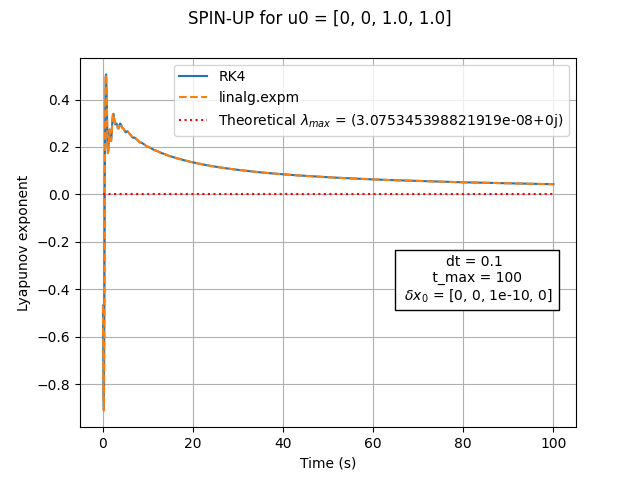
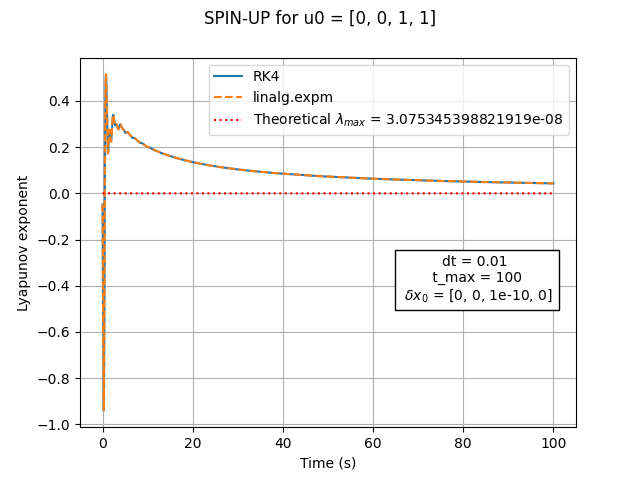
big update jan5

diff --git a/Python codes/lyapunov_spinup.py b/Python codes/lyapunov_spinup.py
@@ -16,6 +16,11 @@ import scipy as sp
 import matplotlib.pyplot as plt
 import tqdm # Progression bar
 
+# Latex labels
+lambda_latex = r"$\lambda_{max}$"
+delta_latex = r"$\delta x_0$"
+t_max_latex = r"$t_{max}$"
+
 # Parameters
 l1 = 1
 l2 = 1
@@ -70,8 +75,8 @@ def RK4_matrix(dt, N, A, delta_0):
 # Arbitrary initial conditions
 w1_0 = 0
 w2_0 = 0
-th1_0 = 1.7
-th2_0 = 1.7
+th1_0 = 1
+th2_0 = 1
 
 u0 = np.array([w1_0, w2_0, th1_0, th2_0])
 
@@ -128,22 +133,17 @@ print(f"Eigenvalues of the jacobian matrix when u0 = {u0}:")
 print(eigenvalue)
 print()
 print("Theoretical lyapunov exponent:")
-print(f"lyap_max = {np.max(eigenvalue.real)}")
+print(f"{lambda_latex} = {np.max(eigenvalue.real)}")
 print()
 print("Experimental lyapunov exponent:")
-print(f"lyap[-1] = {lya_a[-1]}")
-print(f"lyap[500] = {lya_a[500]}") # t = 5 if dt = 0.01
-print(f"lyapunov average from the 400th to the 1000th iteration: {np.average(lya_a[400:1000])}")
+print(f"{lambda_latex}({t_max_latex}) = {lya_a[-1]}")
+print(f"{lambda_latex}(t=20) = {lya_a[2000]}") # t = 20 if dt = 0.01
+print(f"lyapunov average from t=20 to {t_max_latex}: {np.average(lya_a[2000:N])}")
 print()
-print(f"N.B. Lyap length = N: {len(lya_a)}")
+print(f"N.B. lyapunov array length = N = {len(lya_a)}")
 print()
 #-------------------------------------------
 # Plotting the single spin-up results
-
-# Latex labels
-lambda_latex = r"$\lambda_{max}$"
-delta_latex = r"$\delta x_0$"
-t_max_latex = r"$t_{max}$"
 
 plt.figure()
 plt.plot(t_delta, lya, label = "RK4")
@@ -155,12 +155,12 @@ plt.ylabel("Lyapunov exponent")
 plt.text(0.8, 0.4, f"dt = {dt} \n t_max = {t_max} \n {delta_latex} = {delta_0}", bbox = dict(facecolor = "white", alpha = 1), horizontalalignment='center', verticalalignment='center', transform=plt.gca().transAxes)
 plt.grid()
 plt.legend()
-plt.savefig("lyapunov_spinup_z.png")
+plt.savefig("lyapunov_spinup_xrad.png")
 
 plt.show()
 
 
-
+"""
 #-------------------------------------------
 # SPIN-UP for each initial conditions where theta1 = theta2 = theta
 th = np.linspace(0,np.pi,30) # Angle array
@@ -222,5 +222,4 @@ plt.show()
 theta_theta = [np.array([0, 0, th[p], th[p]])  for p in range(30)]
 theta_zero = [np.array([0, 0, th[p], 0]) for p in range(30)]
 zero_theta = [np.array([0, 0, 0, th[p]]) for p in range(30)]
-
-
+"""

diff --git a/Python codes/lyapunov_exponent.py b/Python codes/lyapunov_exponent.py
@@ -83,7 +83,7 @@ def jacobian(w1, w2, th1, th2):
 
 def lyapunov(u, dx):
     """ Computing lambda_max after t_step seconds, starting from a given u and dx"""
-    t_step = 30 # chosen arbitrarily according to the spin-up phase
+    t_step = 20 # chosen arbitrarily according to the spin-up phase
     J = jacobian(u[0],u[1],u[2],u[3]) # evaluating the jacobian at u
     dxf = sp.linalg.expm(J*t_step) @ dx # solving for dx after t seconds
     norm = np.linalg.norm(dxf)
@@ -142,7 +142,7 @@ def graph_lyaps(th, lya_th, u_0):
     plt.suptitle(title)
     plt.ylabel("Lyapunov exponent")
     plt.xlabel(r"$\theta$ (rad)")
-    plt.text(0.2, 0.7, f"dt = {dt} \n {t_max_latex} = 50*{t_step_latex} = 50*30 \n {delta_latex} = [0,0,1e-10,0]", bbox = dict(facecolor = "white", alpha = 1), horizontalalignment='center', verticalalignment='center', transform=plt.gca().transAxes)
+    plt.text(0.2, 0.7, f"dt = {dt} \n {t_max_latex} = 50*{t_step_latex} = 50*20\n {delta_latex} = [0,0,1e-10,0]", bbox = dict(facecolor = "white", alpha = 1), horizontalalignment='center', verticalalignment='center', transform=plt.gca().transAxes)
     plt.legend()
     plt.grid()
     plt.savefig(filename)
